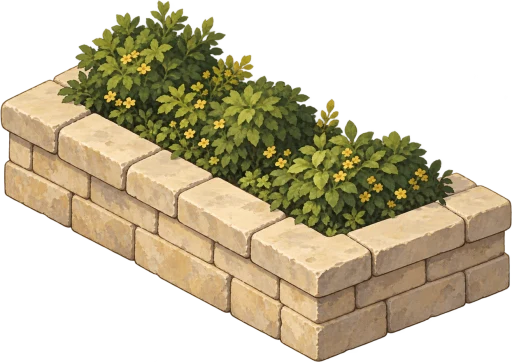
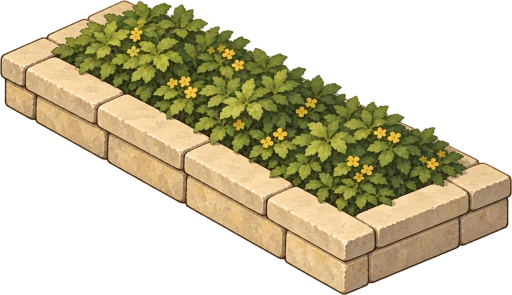
Lower courtyard fixtures to adult working height

diff --git a/src/content/scenes/baDan.ts b/src/content/scenes/baDan.ts
@@ -19,12 +19,13 @@ export const BA_DAN_COURTYARD_FOOTPRINTS: readonly Vec2[] = BA_DAN_COURTYARD_PRO
 
 function courtyardProp({ id, image, x, y }: (typeof BA_DAN_COURTYARD_PROPS)[number]): SceneScenery {
   const width = 192;
-  const height = (width * (image === 'low-planter' ? 362 : 431)) / 512;
+  const height = (width * (image === 'low-planter' ? 295 : 329)) / 512;
+  const frontAnchor = image === 'low-planter' ? 0.675 : 0.695;
   const front = { x: x + 2, y: y + 1 };
   return {
     id,
     url: `${root}${image}.webp`,
-    x: 1024 + (front.x - front.y) * 64 - width * 0.635,
+    x: 1024 + (front.x - front.y) * 64 - width * frontAnchor,
     y: (front.x + front.y) * 32 - height,
     width,
     height,
@@ -95,11 +96,12 @@ export const BA_DAN_SCENE: MapScene = {
     },
   ],
   scenery: [
-    ...BA_DAN_COURTYARD_PROPS.map(courtyardProp),
     house('gao-house', 6, 1, 4, 3),
     house('north-house', 12, 1, 4, 3, 'dwelling'),
     house('southwest-house', 6, 10, 4, 4, 'dwelling'),
     house('southeast-house', 13, 10, 4, 4),
+    // Equal-depth frontage must paint after the building behind it.
+    ...BA_DAN_COURTYARD_PROPS.map(courtyardProp),
     tree(0, 3),
     tree(0, 6, 400),
     tree(0, 10, 420),

diff --git a/docs/art/ba-dan-courtyard-boundaries.md b/docs/art/ba-dan-courtyard-boundaries.md
@@ -35,3 +35,19 @@ display (288,113,951,801). Packed dimensions are 512×362 and 512×431. Both use
 These are composition candidates, not final visual acceptance. Review integrated
 art together with collision geometry on both backends. Remaining straight
 ground boundaries and worn door approaches still need assessment in that view.
+
+## Height correction after integrated review
+
+Runtime 30871ae showed oversized fruit and a counter near adult shoulder height.
+The planter also read too high. Image-tool edits rebuilt shorter structures
+instead of squashing images or shrinking collision footprints. The display uses
+six shallow trays of smaller produce, shortened legs, low boxes and a smaller
+jar; the planter uses one low masonry course and a flatter foliage mat.
+
+Replacement sources: display `exec-0dfd3738-1b77-4df6-a30f-bb8ffbbce66a.png`,
+planter `exec-24312925-8c29-4d28-aca0-797c356881b4.png`. Source alpha bounds are
+(222,168,1094,704) and (93,199,1287,741), packed uniformly to 512×329 and 512×295.
+World width stays 192; front-corner anchors are 69.5% and 67.5% respectively.
+Frontage paints after houses on equal depth so the opaque shop does not bury
+the display. All six logical occupied cells remain unchanged. Gameplay moves
+Gao from the house interior to the visible door approach independently.
